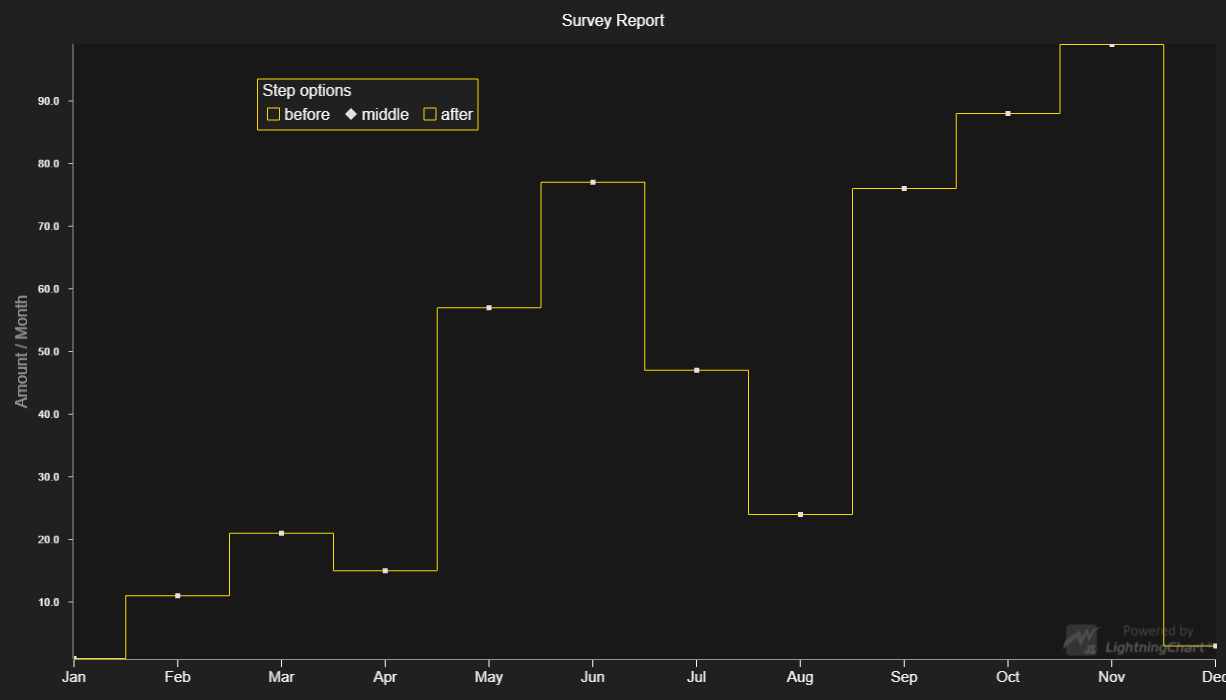
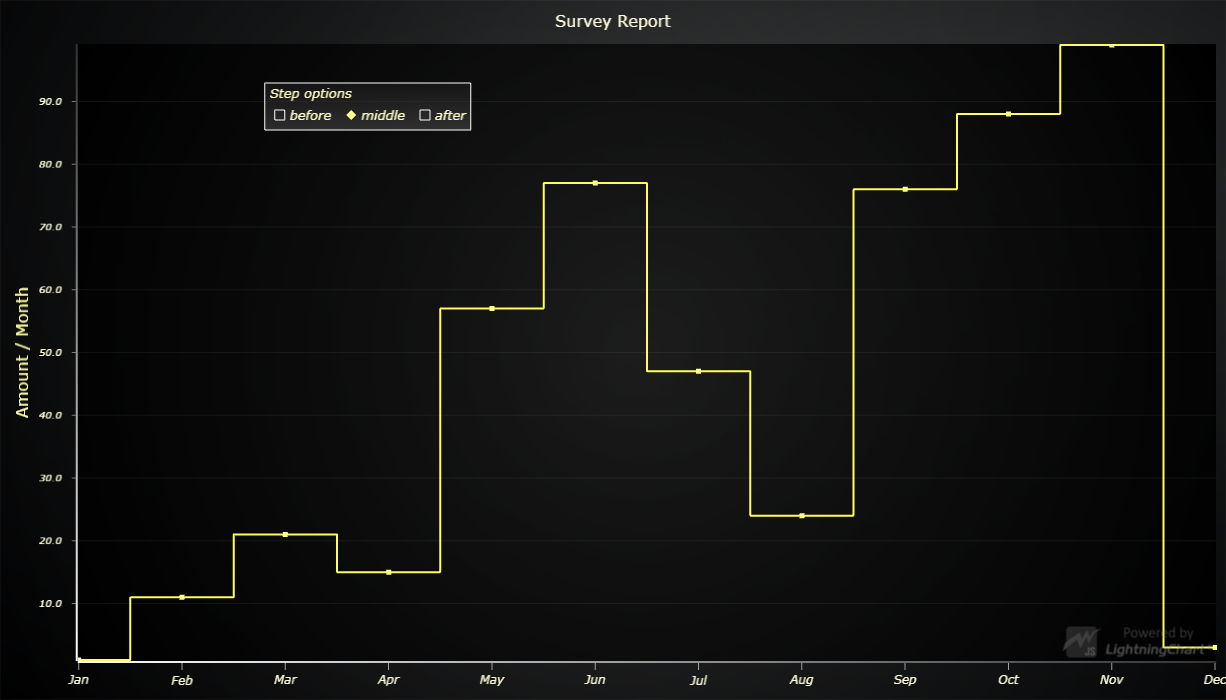
Update LCJS version

diff --git a/src/index.js b/src/index.js
@@ -11,17 +11,13 @@ const {
     UILayoutBuilders,
     UIElementBuilders,
     UIButtonPictures,
-    UIBackgrounds,
     UIOrigins,
-    emptyFill,
-    emptyLine,
     AxisTickStrategies,
-    SolidFill,
     Themes
 } = lcjs
 
 const chart = lightningChart().ChartXY({
-    // theme: Themes.dark
+    // theme: Themes.darkGold
 }).setTitle('Survey Report')
 
 const reportTableXlabel = ['January', 'February', 'March', 'April', 'May', 'June', 'July',
@@ -109,7 +105,7 @@ chart.getDefaultAxisY()
 
 // Add UI controls for switching between step-mode-options.
 // NOTE: This is not the focus of the example, and will be better covered elsewhere.
-const stepControls = chart.addUIElement(UILayoutBuilders.Column.setBackground(UIBackgrounds.Rectangle))
+const stepControls = chart.addUIElement(UILayoutBuilders.Column)
 stepControls.addElement(UIElementBuilders.TextBox)
     .setText('Step options')
 const buttonLayout = stepControls.addElement(UILayoutBuilders.Row)

diff --git a/webpack.config.js b/webpack.config.js
@@ -69,7 +69,8 @@ module.exports = {
         }),
         new CopyWebpackPlugin({
             patterns: [
-                { from: './assets/**/*', to: './examples/assets', flatten: true, noErrorOnMissing: true }
+                { from: './assets/**/*', to: './examples/assets', flatten: true, noErrorOnMissing: true },
+                { from: './node_modules/@arction/lcjs/dist/resources', to: 'resources', noErrorOnMissing: true },
             ]
         })
     ]

diff --git a/README.md b/README.md
@@ -77,13 +77,13 @@ Direct developer email support can be purchased through a [Support Plan][4] or b
 © Arction Ltd 2009-2020. All rights reserved.
 
 
-[XY cartesian chart]: https://www.arction.com/lightningchart-js-api-documentation/v3.0.1/classes/chartxy.html
-[Step options]: https://www.arction.com/lightningchart-js-api-documentation/v3.0.1/enums/stepoptions.html
-[Individual point coloring]: https://www.arction.com/lightningchart-js-api-documentation/v3.0.1/classes/individualpointfill.html
-[UI layout builders]: https://www.arction.com/lightningchart-js-api-documentation/v3.0.1/globals.html#uilayoutbuilders
-[UI backgrounds]: https://www.arction.com/lightningchart-js-api-documentation/v3.0.1/globals.html#uibackgrounds
-[UI elements builders]: https://www.arction.com/lightningchart-js-api-documentation/v3.0.1/globals.html#uielementbuilders
-[UI button pictures]: https://www.arction.com/lightningchart-js-api-documentation/v3.0.1/globals.html#uibuttonpictures
-[UI position origins]: https://www.arction.com/lightningchart-js-api-documentation/v3.0.1/globals.html#uiorigins
+[XY cartesian chart]: https://www.arction.com/lightningchart-js-api-documentation/v3.1.0/classes/chartxy.html
+[Step options]: https://www.arction.com/lightningchart-js-api-documentation/v3.1.0/enums/stepoptions.html
+[Individual point coloring]: https://www.arction.com/lightningchart-js-api-documentation/v3.1.0/classes/individualpointfill.html
+[UI layout builders]: https://www.arction.com/lightningchart-js-api-documentation/v3.1.0/globals.html#uilayoutbuilders
+[UI backgrounds]: https://www.arction.com/lightningchart-js-api-documentation/v3.1.0/globals.html#uibackgrounds
+[UI elements builders]: https://www.arction.com/lightningchart-js-api-documentation/v3.1.0/globals.html#uielementbuilders
+[UI button pictures]: https://www.arction.com/lightningchart-js-api-documentation/v3.1.0/globals.html#uibuttonpictures
+[UI position origins]: https://www.arction.com/lightningchart-js-api-documentation/v3.1.0/globals.html#uiorigins
 [Progressive random generator]: https://arction.github.io/xydata/classes/progressiverandomgenerator.html
 
